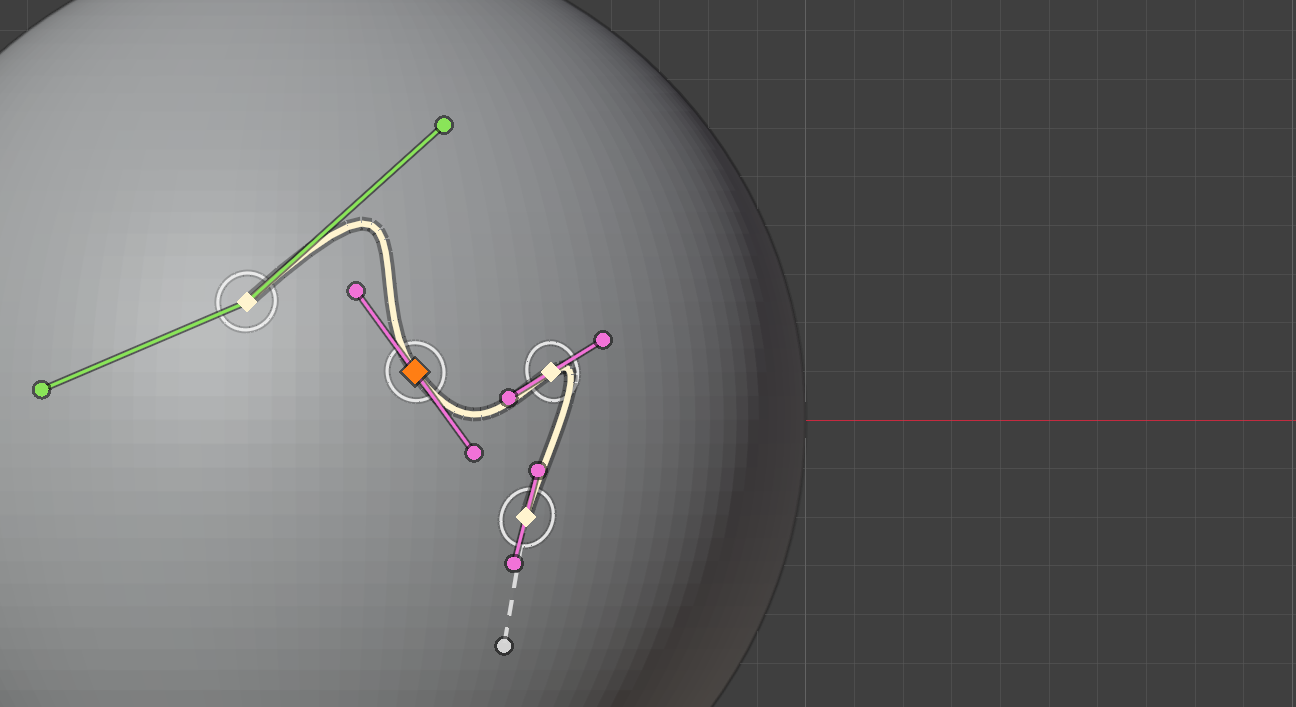
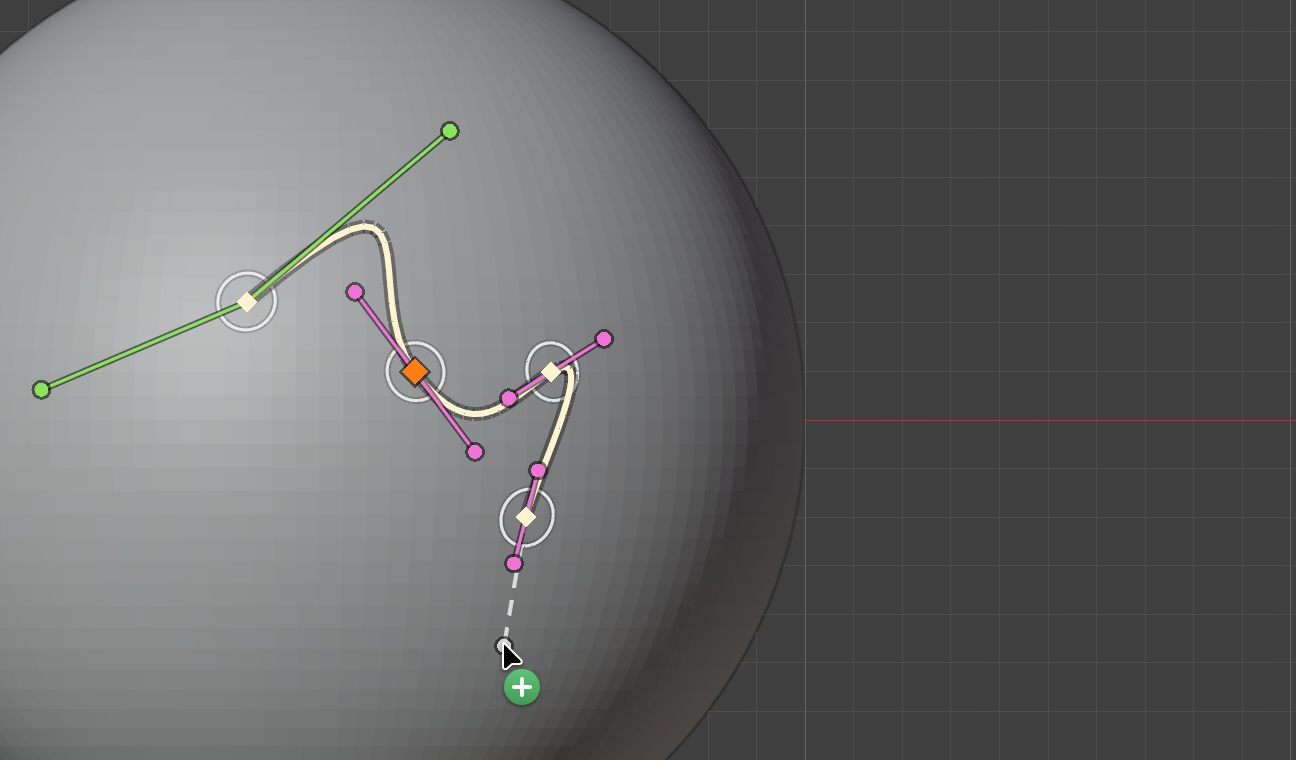
Retake the add preview (with cursor) and pressure screenshots (0.15.10)

diff --git a/docs/conf.py b/docs/conf.py
@@ -12,7 +12,7 @@ author = 'Mark Kingsnorth'
 
 # The add-on version these pages describe (its blender_manifest.toml).
 version = '0.15'
-release = '0.15.9'
+release = '0.15.10'
 
 # -- General configuration ---------------------------------------------------
 # https://www.sphinx-doc.org/en/master/usage/configuration.html#general-configuration
